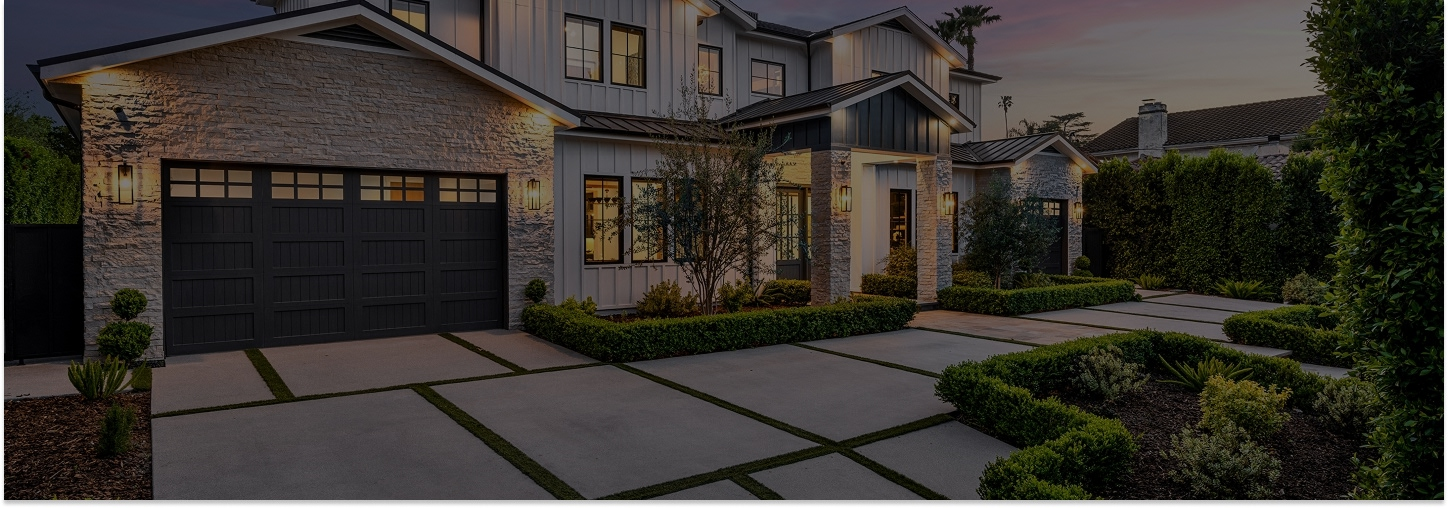
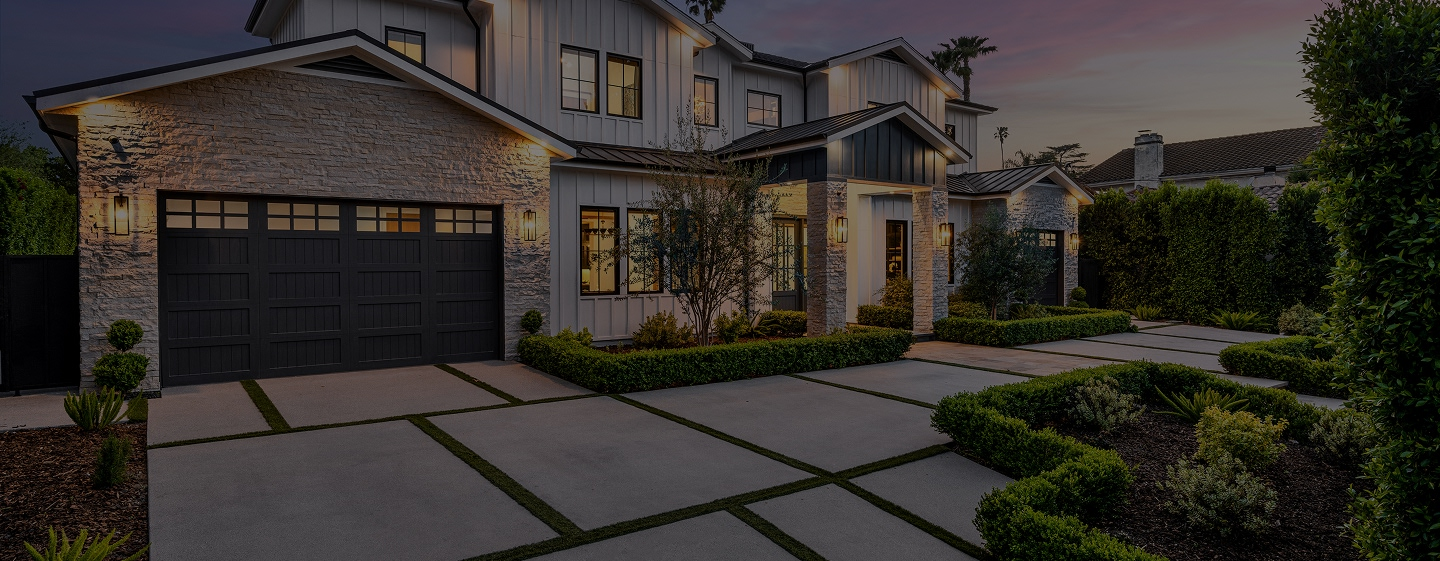
responsive update

diff --git a/src/app/components/MortgageForm.tsx b/src/app/components/MortgageForm.tsx
@@ -18,7 +18,10 @@ interface FormData {
   property_value: string;
   currency: string;
   area: string;
-  timeframe_to_buy: string;
+  timeframe_to_buy: {
+    value: string;
+    label: string;
+  };
   income: string;
 
 }
@@ -47,7 +50,7 @@ export default function MortgageForm() {
     property_value: "",
     currency: "AED",
     area: "",
-    timeframe_to_buy: "",
+    timeframe_to_buy: { value: "", label: "" },
     income: "",
   
   });
@@ -119,7 +122,7 @@ export default function MortgageForm() {
         value: Number(formData.property_value),
         currency: formData.currency,
         area: formData.area,
-        timeframe_to_buy: formData.timeframe_to_buy,
+        timeframe_to_buy: formData.timeframe_to_buy.value,
         income: formData.income,
       },
     };
@@ -396,23 +399,31 @@ export default function MortgageForm() {
   <p className="font-semibold mb-2">Timeframe to Buy</p>
   <select
     name="timeframe_to_buy"
-    value={formData.timeframe_to_buy}
-    onChange={handleChange}
+    value={formData.timeframe_to_buy.value || ""} // value stored in object
+    onChange={(e) => {
+      const { value, options, selectedIndex } = e.target;
+      const label = options[selectedIndex].text;
+      setFormData((prev) => ({
+        ...prev,
+        timeframe_to_buy: { value, label }, // store both
+      }));
+    }}
     className="w-full px-4 py-3 bg-gray-50 text-black text-lg border-0 focus:outline-none focus:border-0 focus:ring-0 rounded-lg"
   >
     <option value="">Choose a Timeframe To Buy</option>
     <option value="+4">{"< 1 month"}</option>
     <option value="+3">1–3 months</option>
     <option value="+2">3–6 months</option>
-    <option value="exploring">Just exploring</option>
+    <option value="+0">Just exploring</option>
   </select>
   {errors.timeframe_to_buy && (
     <p className="text-red-500 text-sm">{errors.timeframe_to_buy}</p>
   )}
 </div>
 
+
 <div>
-  <p className="font-semibold mb-2">Income</p>
+  <p className="font-semibold mb-2">Monthly Income</p>
   <div className="relative">
  
 
@@ -422,7 +433,7 @@ export default function MortgageForm() {
       name="income"
       value={formData.income}
       onChange={handleChange}
-      placeholder="Enter your income"
+      placeholder="Enter value in AED"
       className="w-full pl-4 pr-4 py-3 bg-gray-50 text-black text-lg border-0 focus:outline-none focus:ring-0 rounded-lg"
     />
   </div>
@@ -488,7 +499,7 @@ export default function MortgageForm() {
                     <strong>Area:</strong> {formData.area}
                   </p>
                   <p>
-                    <strong>Timeframe to Buy:</strong> {formData.timeframe_to_buy}
+                    <strong>Timeframe to Buy:</strong> {formData.timeframe_to_buy.label || ""}
                   </p>
                   <p>
                     <strong>Income:</strong> {formData.income}{" "}

diff --git a/src/app/components/MortgageCalculator.tsx b/src/app/components/MortgageCalculator.tsx
@@ -189,10 +189,11 @@ export default function MortgageCalculator() {
       InterestRate: newValue,
     }));
 
-  };
+  }
 
   return (
-    <div className="ef-section-style-calc grid grid-cols-1 md:grid-cols-2 mx-auto p-2 md:p-6 border-4 border-ef-dark-blue rounded-4xl gap-8">
+    <div className="mx-auto w-full max-w-[1366px] py-5 md:pt-0 px-4 sm:px-6 lg:px-8">
+    <div className="grid grid-cols-1 md:grid-cols-2  p-2 md:p-6 border-4 border-ef-dark-blue rounded-4xl gap-8">
       {/* Residency Status */}
       <div className="md:pr-12">
         <div className="mb-8">
@@ -502,6 +503,8 @@ export default function MortgageCalculator() {
   </div>
 </div>
 
+
+    </div>
 
     </div>
   );

diff --git a/src/app/components/MortgageMadeSimple.tsx b/src/app/components/MortgageMadeSimple.tsx
@@ -6,7 +6,7 @@
 
 export default function MortgageMadeSimple() {
   return (
-    <div className="max-w-7xl mx-auto py-5 md:pt-5 px-4 sm:px-0 lg:px-0">
+    <div className="mx-auto w-full max-w-[1366px] py-5 md:pt-0 px-4 sm:px-6 lg:px-8">
       <div className="grid md:grid-cols-[490px_1fr] md:gap-6">
         
         <div className="mb-0 md:md-0 text-center md:text-left">
@@ -21,7 +21,6 @@ export default function MortgageMadeSimple() {
             Make informed decisions about your mortgage options. Use our free mortgage calculator to find out the costs associated with buying your property.
           </p>
         </div>
-
       </div>
     </div>
   );

diff --git a/src/app/faqs/page.tsx b/src/app/faqs/page.tsx
@@ -72,14 +72,12 @@ export default function FaqPage() {
   return (
     <div>
      
-    
-    <div className="ef-sub-page-top-style">
       <SubPageHeroBanner
         title="FAQs"
         subtitle="Answers At Your Fingertips"
         image="/assets/images/faq-hero.jpg"
       />
-      <div className=" mb-20 pt-10 md:mt-0">
+      <div className="mx-auto w-full max-w-[1366px] py-5 md:pt-10 px-4 sm:px-6 lg:px-8">
         <CategorySidebar
           categories={categories}
           activeId={selectedCategory}
@@ -104,7 +102,7 @@ export default function FaqPage() {
           )}
         </div>
       </div>
-    </div>
+
     </div>
   );
 }

diff --git a/src/app/components/HeroSlider.tsx b/src/app/components/HeroSlider.tsx
@@ -18,7 +18,9 @@ export default function HeroSlider({ onScrollClick }: HeroSliderProps) {
   // }, []);
 
   return (
-    <div className="relative mx-auto max-w-7xl h-[600px] md:h-[550px] sm:rounded-[30px] overflow-hidden">
+    <div className="relative w-full max-w-[1440px] h-[600px] md:h-[550px] sm:rounded-[30px] overflow-hidden mx-0 md:mx-[10px] xl:mx-auto">
+
+      
       {/* Background Video */}
       <div className="relative max-h-[calc(min(85vh,760px))] min-h-[720px] max-w-[1440px] overflow-hidden max-lg:h-[756px] md:max-h-[calc(min(95dvh,960px))]">
         <video

diff --git a/src/app/components/UnlockDoor.tsx b/src/app/components/UnlockDoor.tsx
@@ -4,7 +4,8 @@ export default function UnlockDoor() {
 
 
   return (
-    <div className="max-w-7xl mx-auto py-5 md:pt-10 px-4 sm:px-0 lg:px-0">
+    <div className="mx-auto w-full max-w-[1366px] py-5 md:pt-10 px-4 sm:px-6 lg:px-8">
+      
   <div className="relative section-padding bg-[url('/assets/images/unlocking-doors.jpg')] bg-cover bg-center h-[200px] md:h-[450px] rounded-[15px] md:rounded-[30px] p-15 text-center md:text-left flex items-center justify-center md:items-start md:justify-start overflow-hidden">
     
     {/* Overlay */}

diff --git a/src/app/components/SubPageHeroBanner.tsx b/src/app/components/SubPageHeroBanner.tsx
@@ -8,7 +8,7 @@ interface HeroBannerProps {
 
 export default function SubPageHeroBanner({ title, subtitle, image }: HeroBannerProps) {
   return (
-<section className="relative md:rounded-4xl overflow-hidden max-w-8xl mx-auto h-[500px] md:h-[300px] flex items-center">
+<section className="relative w-full max-w-[1440px] h-[500px] md:h-[300px] flex items-center overflow-hidden md:rounded-4xl mx-0 md:mx-[1px] xl:mx-auto">
   <Image
     src={image}
     alt={title || "Hero Section"}

diff --git a/src/app/components/CategorySidebar.tsx b/src/app/components/CategorySidebar.tsx
@@ -44,7 +44,7 @@ const CategorySidebar: React.FC<CategorySidebarProps> = ({
         <select
   value={activeId}
   onChange={(e) => onSelect(e.target.value)}
-  className="w-full p-2 border-[3px] border-ef-blue rounded-lg text-gray-700 focus:outline-none focus:ring-2 focus:ring-ef-blue"
+  className="w-full p-2 border-[3px] border-ef-blue rounded-lg text-[20px] font-bold text-gray-700 focus:outline-none focus:ring-2 focus:ring-ef-blue"
 >
 
           {categories.map((cat) => (

diff --git a/src/app/blog/page.tsx b/src/app/blog/page.tsx
@@ -30,13 +30,13 @@ export default function BlogList() {
 
   return (
     <div>
-      <div className="ef-sub-page-top-style">
+    
         <SubPageHeroBanner
           title="Blog"
           subtitle="Insights To Guide You"
           image="/assets/images/blog-hero.jpg"
         />
-      </div>
+
     <div className="ef-sub-page-top-style">
       <div className="grid p-2  md:gap-6 lg:grid-cols-3 my-10">
         {blogs.length === 0 ? (

diff --git a/src/app/about-us/page.tsx b/src/app/about-us/page.tsx
@@ -9,13 +9,13 @@ import RedefinedYourHome from "../components/RedefinedYourHome";
 export default function AboutUs() {
   return (
     <div>
-    <div className="ef-sub-page-top-style">
+
       <SubPageHeroBanner
         title="About Us"
         subtitle="Your Trusted Mortgage Partner"
         image="/assets/images/about-us-hero.jpg"
       />
-      </div>
+
        <WhoWeAre />
       <OurTeam />
       <RedefinedYourHome />

diff --git a/src/app/components/BlogDetail.tsx b/src/app/components/BlogDetail.tsx
@@ -33,14 +33,14 @@ export default function BlogDetail({ blog }: { blog: Blog }) {
 
   return (
     <div>
-      <div className="ef-sub-page-top-style">
+
         
             <SubPageHeroBanner
                             title="Off-Plan Finance"
                             subtitle={blog.title}
                             image={blog.image}
                           />
-            </div>
+
 
 
       {/* Blog Content */}

diff --git a/src/app/components/WhyEquifirst.tsx b/src/app/components/WhyEquifirst.tsx
@@ -51,7 +51,8 @@ export default function WhyEquifirst({ onScrollClick }: HeroSliderProps) {
   };
 
   return (
-    <div className="max-w-7xl mx-auto py-8 md:pt-15 px-4 sm:px-0 lg:px-0">
+    <div className="mx-auto w-full max-w-[1366px] py-5 md:pt-10 px-4 sm:px-6 lg:px-8">
+
       <div className="grid md:grid-cols-[490px_1fr] md:gap-6">
         {/* LEFT SIDE */}
         <div className="md:mb-6 md:text-left">
